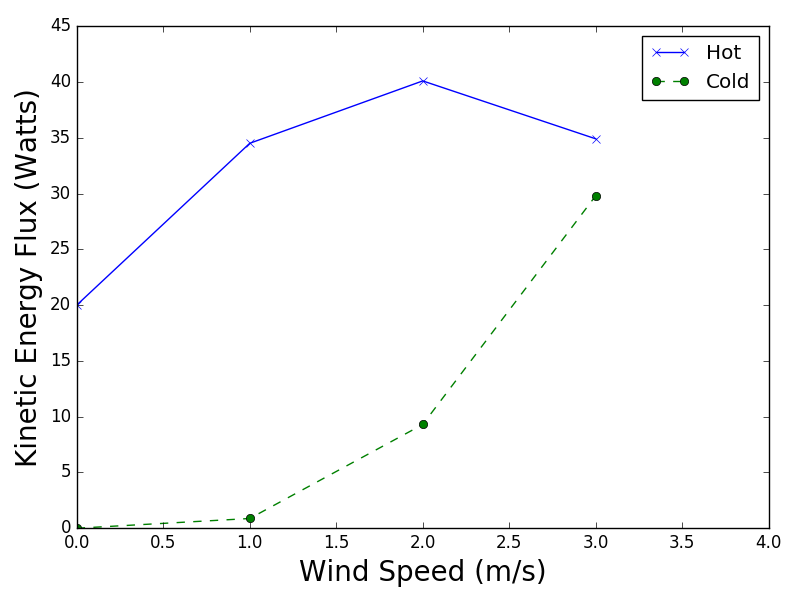
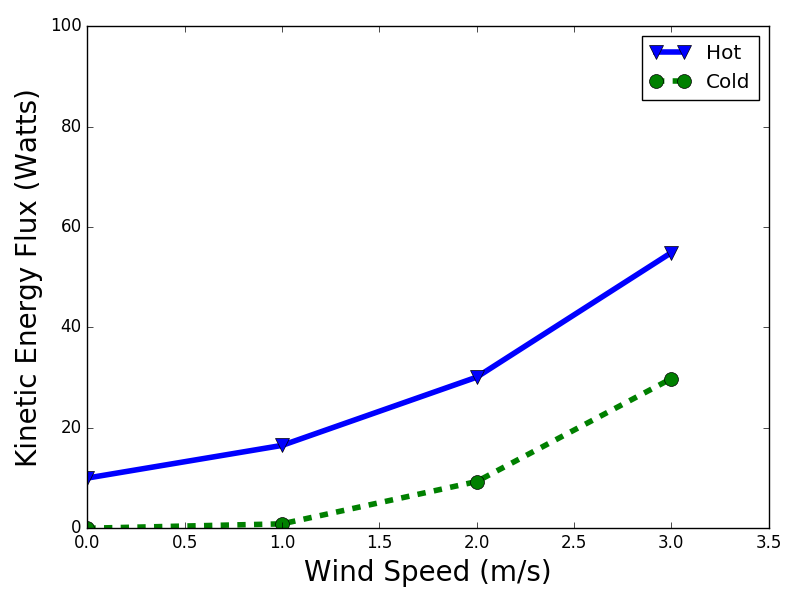
updating image

diff --git a/disputatio/routines/wind_impact/wind.py b/disputatio/routines/wind_impact/wind.py
@@ -7,22 +7,26 @@
 # 0        20.0  | 0.0
 #
 
-speed = [0,1,2,3]
-hot   = [20.0,34.5,40.09,34.9]
-cold  = [0.0,.8745,9.3,29.8]
+import numpy as np
 
+speed = [0,1,2,3]
+h     = [10.0,16.5,30.09,54.9]
+c     = [0.0,.8745,9.3,29.8]
+
+hot  = np.array(h)
+cold = np.array(c)
 
 #
 #
 #
 import matplotlib.pyplot as plt
 
-plt.plot(speed,hot,'x-', label='Hot')
-plt.plot(speed,cold,'o--', label='Cold')
+plt.plot(speed,hot,'v-', label='Hot',linewidth=4,markersize=10)
+plt.plot(speed,cold,'o--', label='Cold',linewidth=4,markersize=10)
 
 #overrx = np.linspace(1.0, 5.0, num=50)
-plt.xlim([0,4])
-plt.ylim([0,45])
+plt.xlim([0,3.5])
+plt.ylim([0,100])
 
 fsz=20
 plt.ylabel(r'Kinetic Energy Flux (Watts)',
